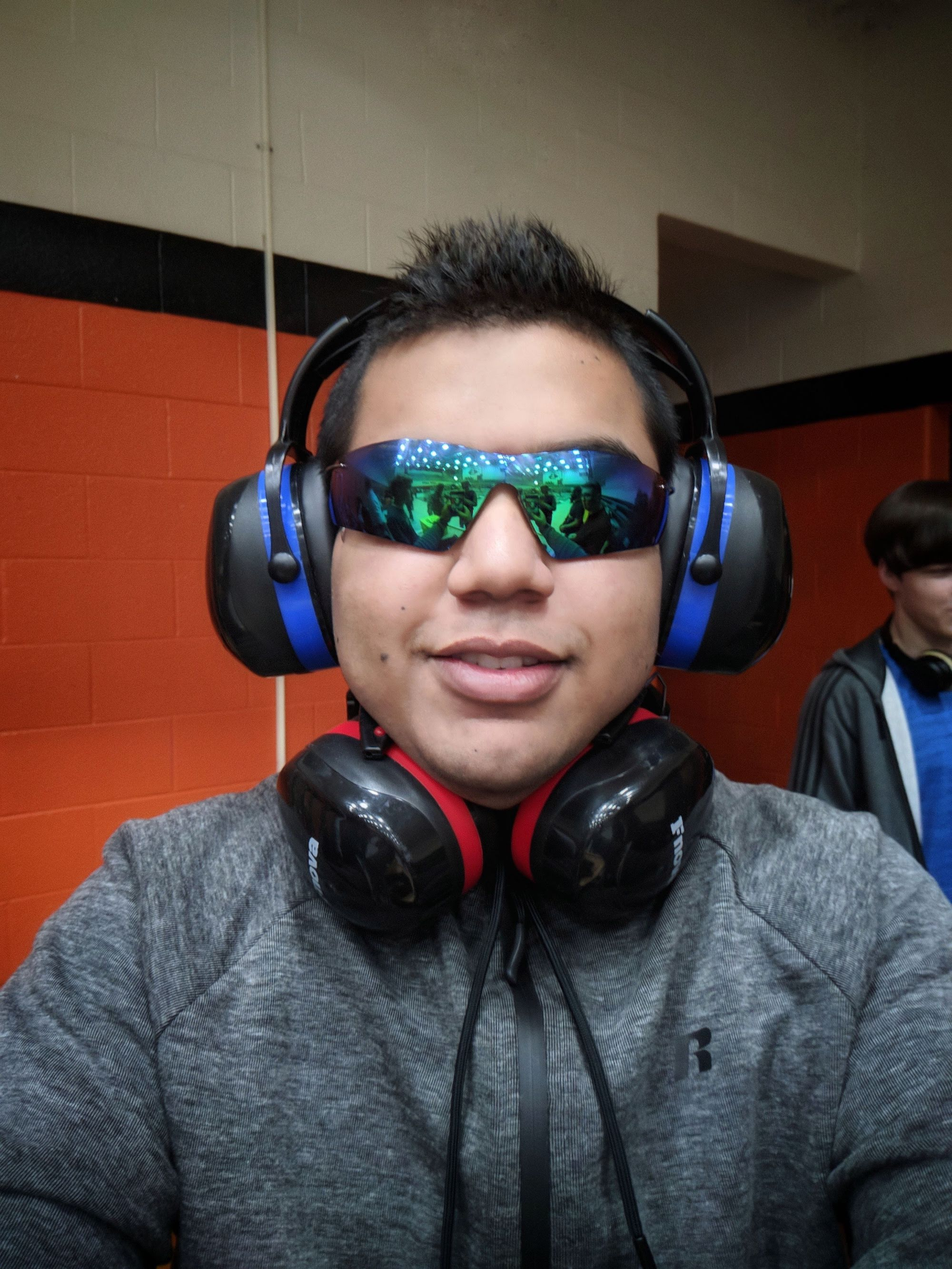
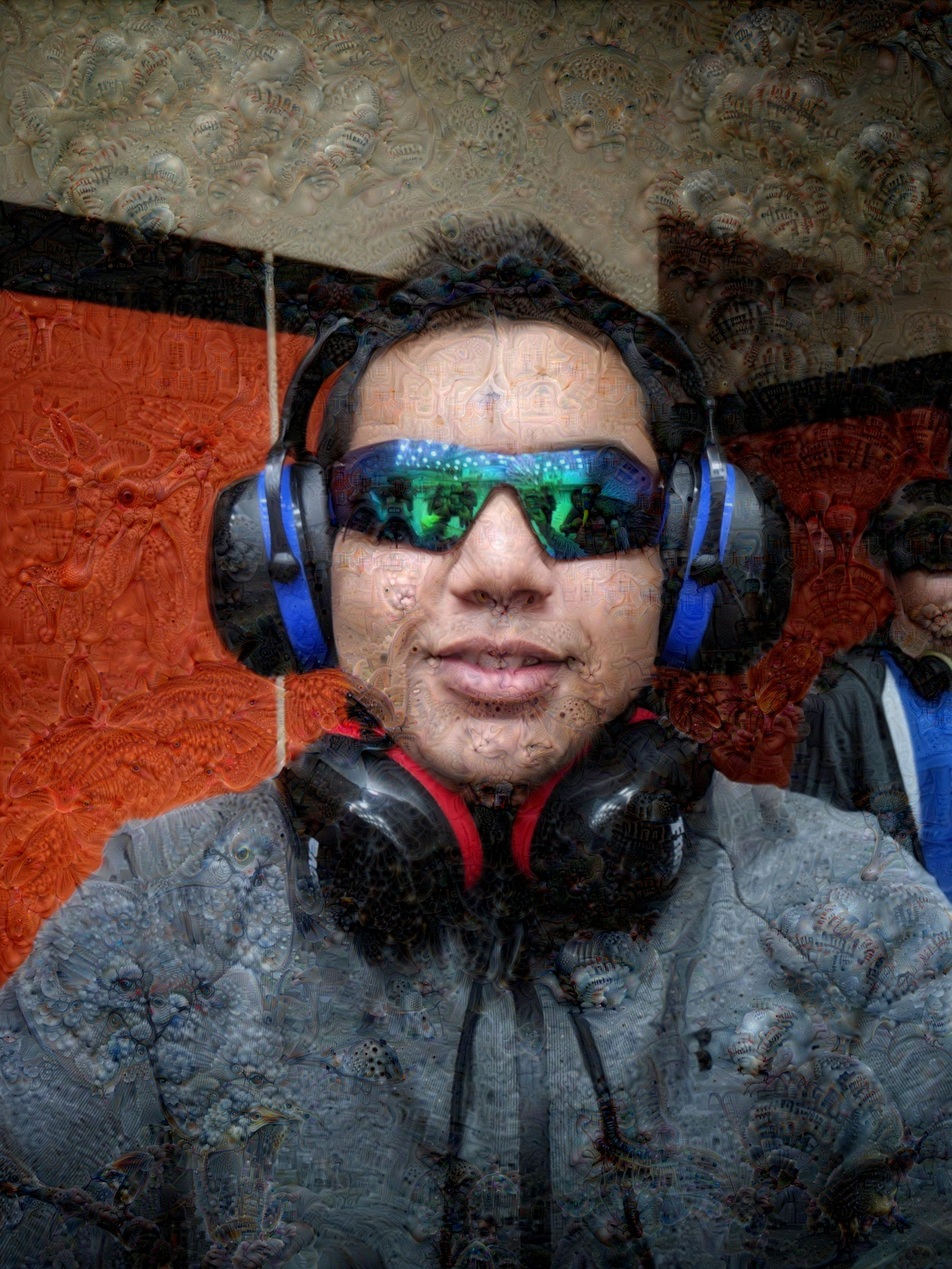
asdf

diff --git a/dream_image.py b/dream_image.py
@@ -27,13 +27,13 @@ from deepdreamer import model, load_image, recursive_optimize
 import numpy as np
 import PIL.Image
 
-layer_tensor = model.layer_tensors[10]
+layer_tensor = model.layer_tensors[11]
 file_name = "input/input.jpg"
 img_result = load_image(filename='{}'.format(file_name))
 
 img_result = recursive_optimize(layer_tensor=layer_tensor, image=img_result,
                  # how clear is the dream vs original image        
-                 num_iterations=40, step_size=1.0, rescale_factor=.9,
+                 num_iterations=40, step_size=1.0, rescale_factor=.8,
                  # How many "passes" over the data. More passes, the more granular the gradients will be.
                  num_repeats=25, blend=0.2)
 
